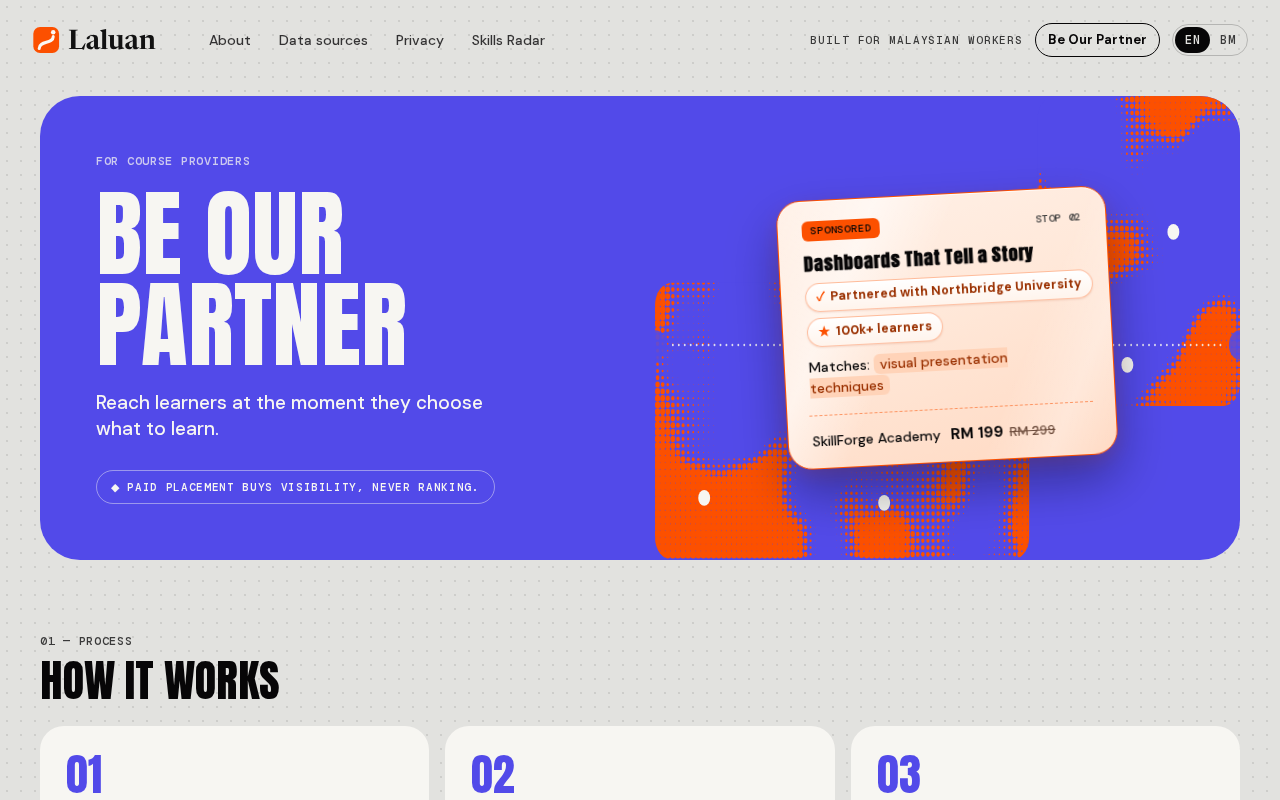
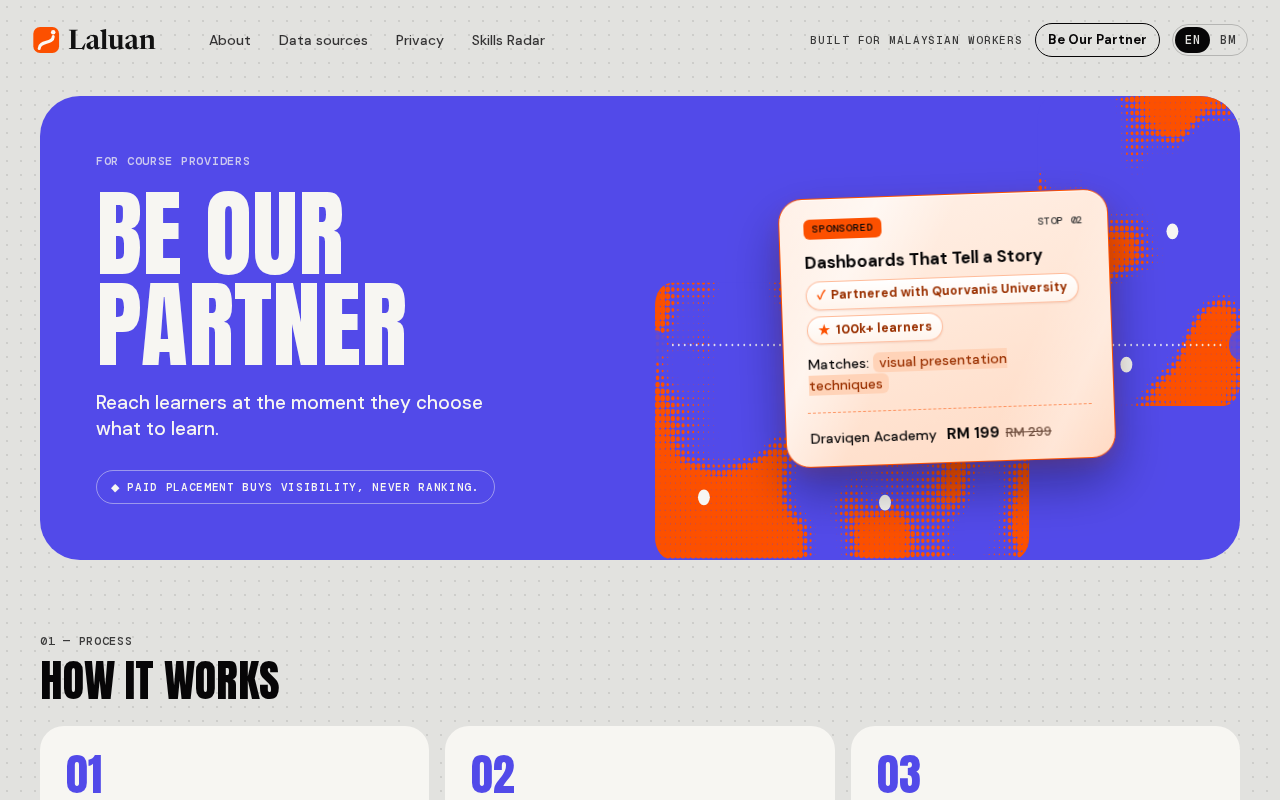
Partner: verified-fictional partner names, DM Sans card titles, 390 hero card fit, why-popover tail, retaken screenshots

diff --git a/src/components/partner-view.test.tsx b/src/components/partner-view.test.tsx
@@ -11,9 +11,9 @@ describe("partner form", () => {
   it("shows errors on empty submit, then the demo success ticket", () => {
     render(<PartnerView />);
     // Prefilled demo values first; clear them to see validation.
-    expect((screen.getByLabelText("Organisation name") as HTMLInputElement).value).toBe("SkillForge Academy");
-    expect((screen.getByLabelText("Contact email") as HTMLInputElement).value).toBe("partners@skillforge.my");
-    expect((screen.getByLabelText("Course link (URL)") as HTMLInputElement).value).toBe("https://skillforge.my/courses/dashboards");
+    expect((screen.getByLabelText("Organisation name") as HTMLInputElement).value).toBe("Draviqen Academy");
+    expect((screen.getByLabelText("Contact email") as HTMLInputElement).value).toBe("partners@example.my");
+    expect((screen.getByLabelText("Course link (URL)") as HTMLInputElement).value).toBe("https://example.my/courses/dashboards");
     fireEvent.change(screen.getByLabelText("Organisation name"), { target: { value: "" } });
     fireEvent.change(screen.getByLabelText("Course link (URL)"), { target: { value: "" } });
     fireEvent.change(screen.getByLabelText("Contact email"), { target: { value: "" } });
@@ -53,7 +53,7 @@ describe("partner form", () => {
     const setItem = vi.spyOn(Storage.prototype, "setItem");
     render(<PartnerView />);
     fireEvent.click(screen.getByRole("button", { name: /Submit application/ }));
-    expect(screen.getByTestId("partner-success").textContent).toContain("SkillForge Academy");
+    expect(screen.getByTestId("partner-success").textContent).toContain("Draviqen Academy");
     expect(screen.getByTestId("partner-success").textContent).toContain("Partner review");
     expect(fetchSpy).not.toHaveBeenCalled();
     expect(setItem).not.toHaveBeenCalled();

diff --git a/src/components/sponsored-card.tsx b/src/components/sponsored-card.tsx
@@ -36,7 +36,7 @@ export function SponsoredCard({
           </span>
           {corner && <span className="font-data text-[10.5px] tracking-[0.06em] text-grey uppercase">{corner}</span>}
         </div>
-        <h4 className="mt-3 text-[18px] leading-tight font-bold">{course.title}</h4>
+        <h4 className="mt-3 font-sans text-[15px] leading-[1.3] font-semibold normal-case tracking-normal sm:text-[17px]">{course.title}</h4>
         <div className="mt-2 flex flex-wrap gap-1.5" data-testid="sponsored-badges">
           {course.badges.map((badge) => (
             <span key={badge.label} className="sponsored-pill">
@@ -82,9 +82,11 @@ export function SponsoredCard({
         {withWhy && open && (
           <p
             role="note"
-            className="absolute right-3 bottom-14 left-3 z-10 rounded-[16px] bg-obsidian px-[18px] py-4 text-[14px] leading-[1.45] text-limestone shadow-[0_18px_40px_rgba(7,6,7,0.3)] sm:left-auto sm:w-[300px]"
+            className="absolute right-3 bottom-14 left-3 z-10 max-w-[300px] rounded-[16px] bg-obsidian px-[18px] py-4 text-[14px] leading-[1.45] text-limestone shadow-[0_18px_40px_rgba(7,6,7,0.3)] sm:left-auto sm:w-[300px] ml-auto"
           >
             {t("sponsored.whyBody")}
+            {/* Tail pointing down at the "Why am I seeing this?" trigger. */}
+            <span aria-hidden className="absolute -bottom-[7px] right-8 size-3.5 rotate-45 bg-obsidian" />
           </p>
         )}
       </div>

diff --git a/src/components/partner-view.tsx b/src/components/partner-view.tsx
@@ -32,9 +32,9 @@ export function validatePartnerForm(values: { org: string; url: string; skills: 
 }
 
 const PREFILL = {
-  org: "SkillForge Academy",
-  url: "https://skillforge.my/courses/dashboards",
-  email: "partners@skillforge.my",
+  org: "Draviqen Academy",
+  url: "https://example.my/courses/dashboards",
+  email: "partners@example.my",
   skills: ["data"] as SkillId[],
 };
 
@@ -85,10 +85,10 @@ export function PartnerView() {
             ◆ {t("partner.principle")}
           </p>
         </div>
-        <div className="relative h-[260px] md:h-auto" data-testid="partner-hero-preview">
+        <div className="relative flex min-h-[340px] items-center justify-center px-4 pt-6 pb-12 md:min-h-0 md:p-0" data-testid="partner-hero-preview">
           {/* Same halftone texture as the home hero, decorative only. */}
           <LandingHeroCanvas className="absolute inset-0 size-full" />
-          <div className="absolute top-1/2 left-1/2 w-[290px] -translate-x-1/2 -translate-y-1/2 -rotate-3 shadow-[0_24px_50px_rgba(7,6,7,0.35)] md:w-[330px] rounded-[24px]">
+          <div className="relative w-[calc(100%-32px)] max-w-[320px] -rotate-2 rounded-[24px] shadow-[0_24px_50px_rgba(7,6,7,0.35)] md:max-w-[330px]">
             <SponsoredCard
               t={t}
               course={HERO_PREVIEW}

diff --git a/src/components/sponsored-row.test.tsx b/src/components/sponsored-row.test.tsx
@@ -17,7 +17,7 @@ describe("SponsoredRow", () => {
     expect(screen.getByText("1 of max 1 · this stop")).toBeTruthy();
     expect(screen.getByText("Statistics in Practice")).toBeTruthy();
     expect(screen.getByTestId("sponsored-badges").textContent).toContain("Certificate included");
-    expect(screen.getByText("Northbridge Learning")).toBeTruthy();
+    expect(screen.getByText("Tamaskri Learning")).toBeTruthy();
     expect(screen.getByText("RM 149")).toBeTruthy();
     expect(screen.getByText("RM 229").tagName).toBe("S");
     expect(container.textContent).not.toMatch(/PLACEHOLDER|Example|Doesn't change your recommendations\. Free/);

diff --git a/src/lib/sponsored.test.ts b/src/lib/sponsored.test.ts
@@ -50,7 +50,7 @@ describe("pickSponsored", () => {
 
   it("mock partners are fictional data with non-navigating links, prices and badges", () => {
     for (const course of SPONSORED_COURSES) {
-      expect(["SkillForge Academy", "Northbridge Learning"]).toContain(course.provider);
+      expect(["Draviqen Academy", "Tamaskri Learning"]).toContain(course.provider);
       expect(course.url).toBe("#");
       expect(course.price).toMatch(/^RM \d+$/);
       expect(course.listPrice).toMatch(/^RM \d+$/);

diff --git a/src/app/globals.css b/src/app/globals.css
@@ -383,3 +383,9 @@ body:has(.privacy-page) { background-color: var(--color-limestone); background-i
 .sponsored-card--flat .sponsored-card__tear::after {
   display: none;
 }
+
+/* /partner hero preview: let badge pills wrap inside the narrow 390px card. */
+.sponsored-card--flat .sponsored-pill {
+  max-width: 100%;
+  white-space: normal;
+}

diff --git a/docs/PARTNER_DEMO.md b/docs/PARTNER_DEMO.md
@@ -2,7 +2,7 @@
 
 The "Be Our Partner" page (`/partner`) and the Sponsored cards on the pathway are a **front-end demo** for the SDC finals.
 
-- **Fictional partners.** SkillForge Academy, Northbridge Learning and Northbridge University are made-up names. They are not affiliated with, and do not refer to, any real organisation. Their course titles, badges ("100k+ learners", "4.8 ★ · 2k reviews", "Partnered with …") and prices (RM 199 / RM 299, etc.) are invented.
+- **Fictional partners.** Draviqen Academy, Tamaskri Learning and Quorvanis University are made-up names. They are not affiliated with, and do not refer to, any real organisation. Their course titles, badges ("100k+ learners", "4.8 ★ · 2k reviews", "Partnered with …") and prices (RM 199 / RM 299, etc.) are invented.
 - **Fictional pricing.** RM 0.80 / click, RM 25 / enrolment and RM 1,500 / month are illustrative, not a real rate card.
 - **No real links or data.** Card links are `#`. The application form is prefilled with fictional details, never sends a request and stores nothing.
 - **Never affects results.** Sponsored data (`src/data/sponsored-courses.json`) is never read by scoring, ranking, `buildPathwayPlan`, stops, weeks, the free count, the trend lock, progress or the certificate. It is hidden in print/PDF.
